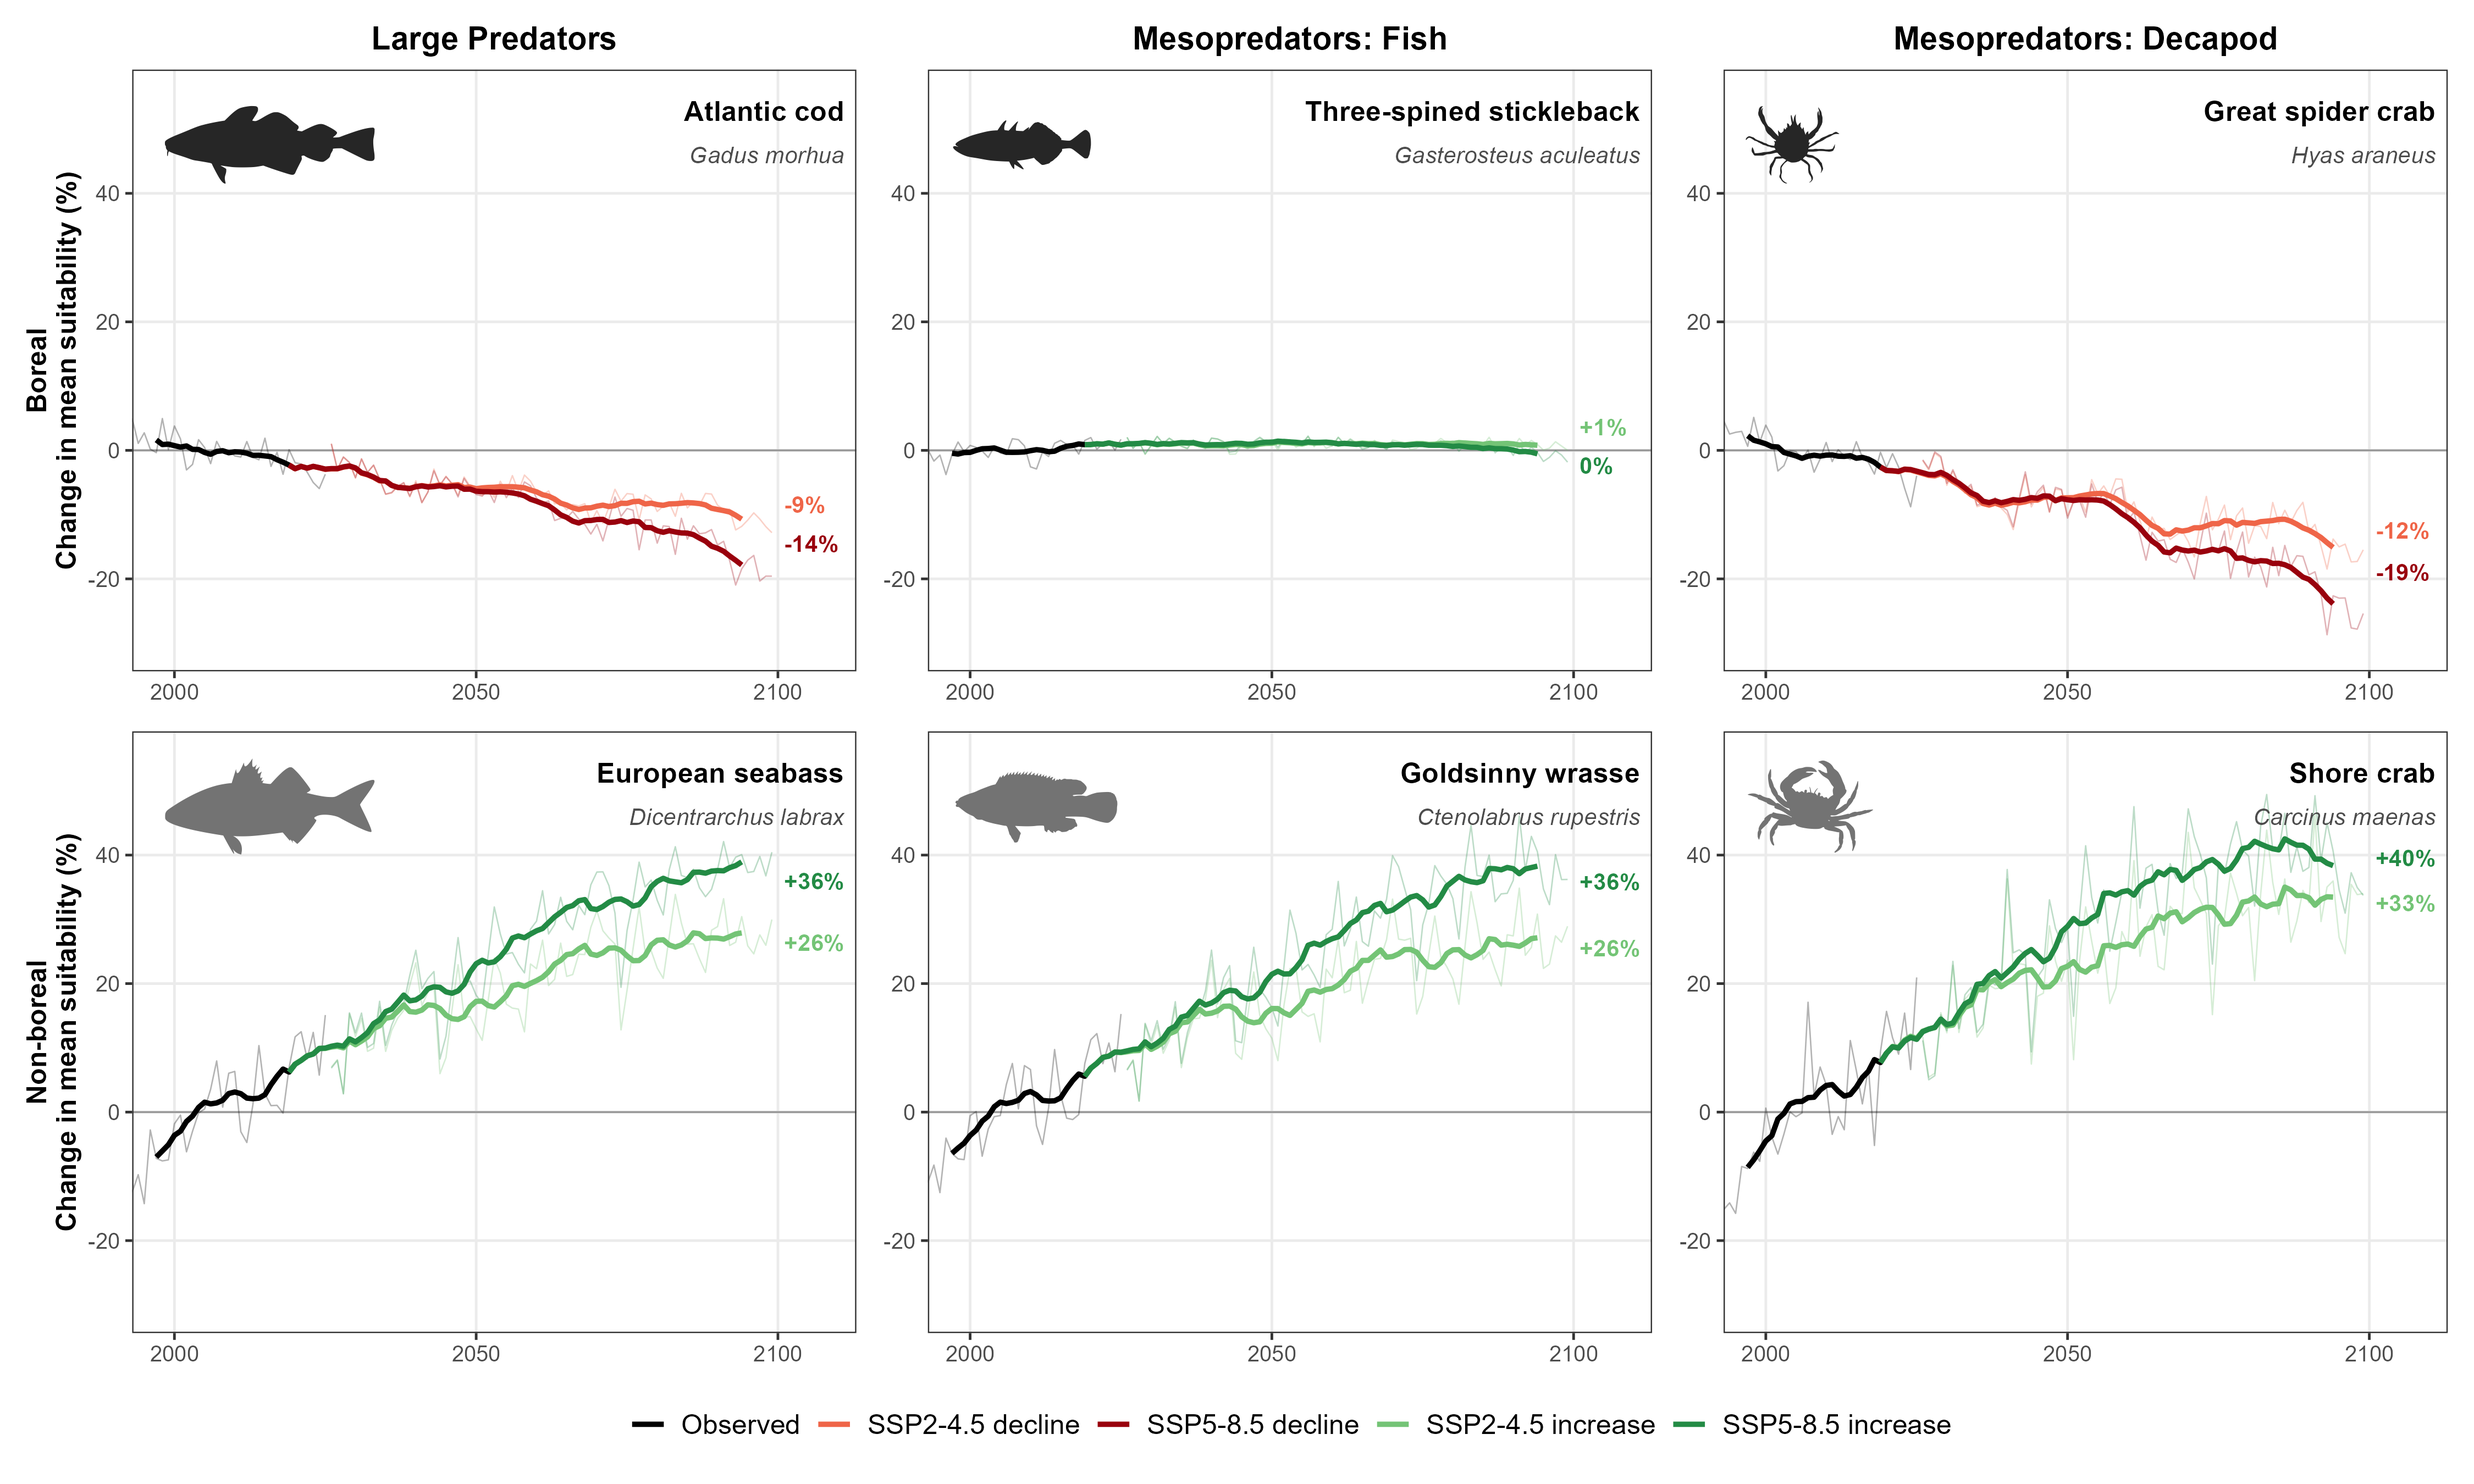
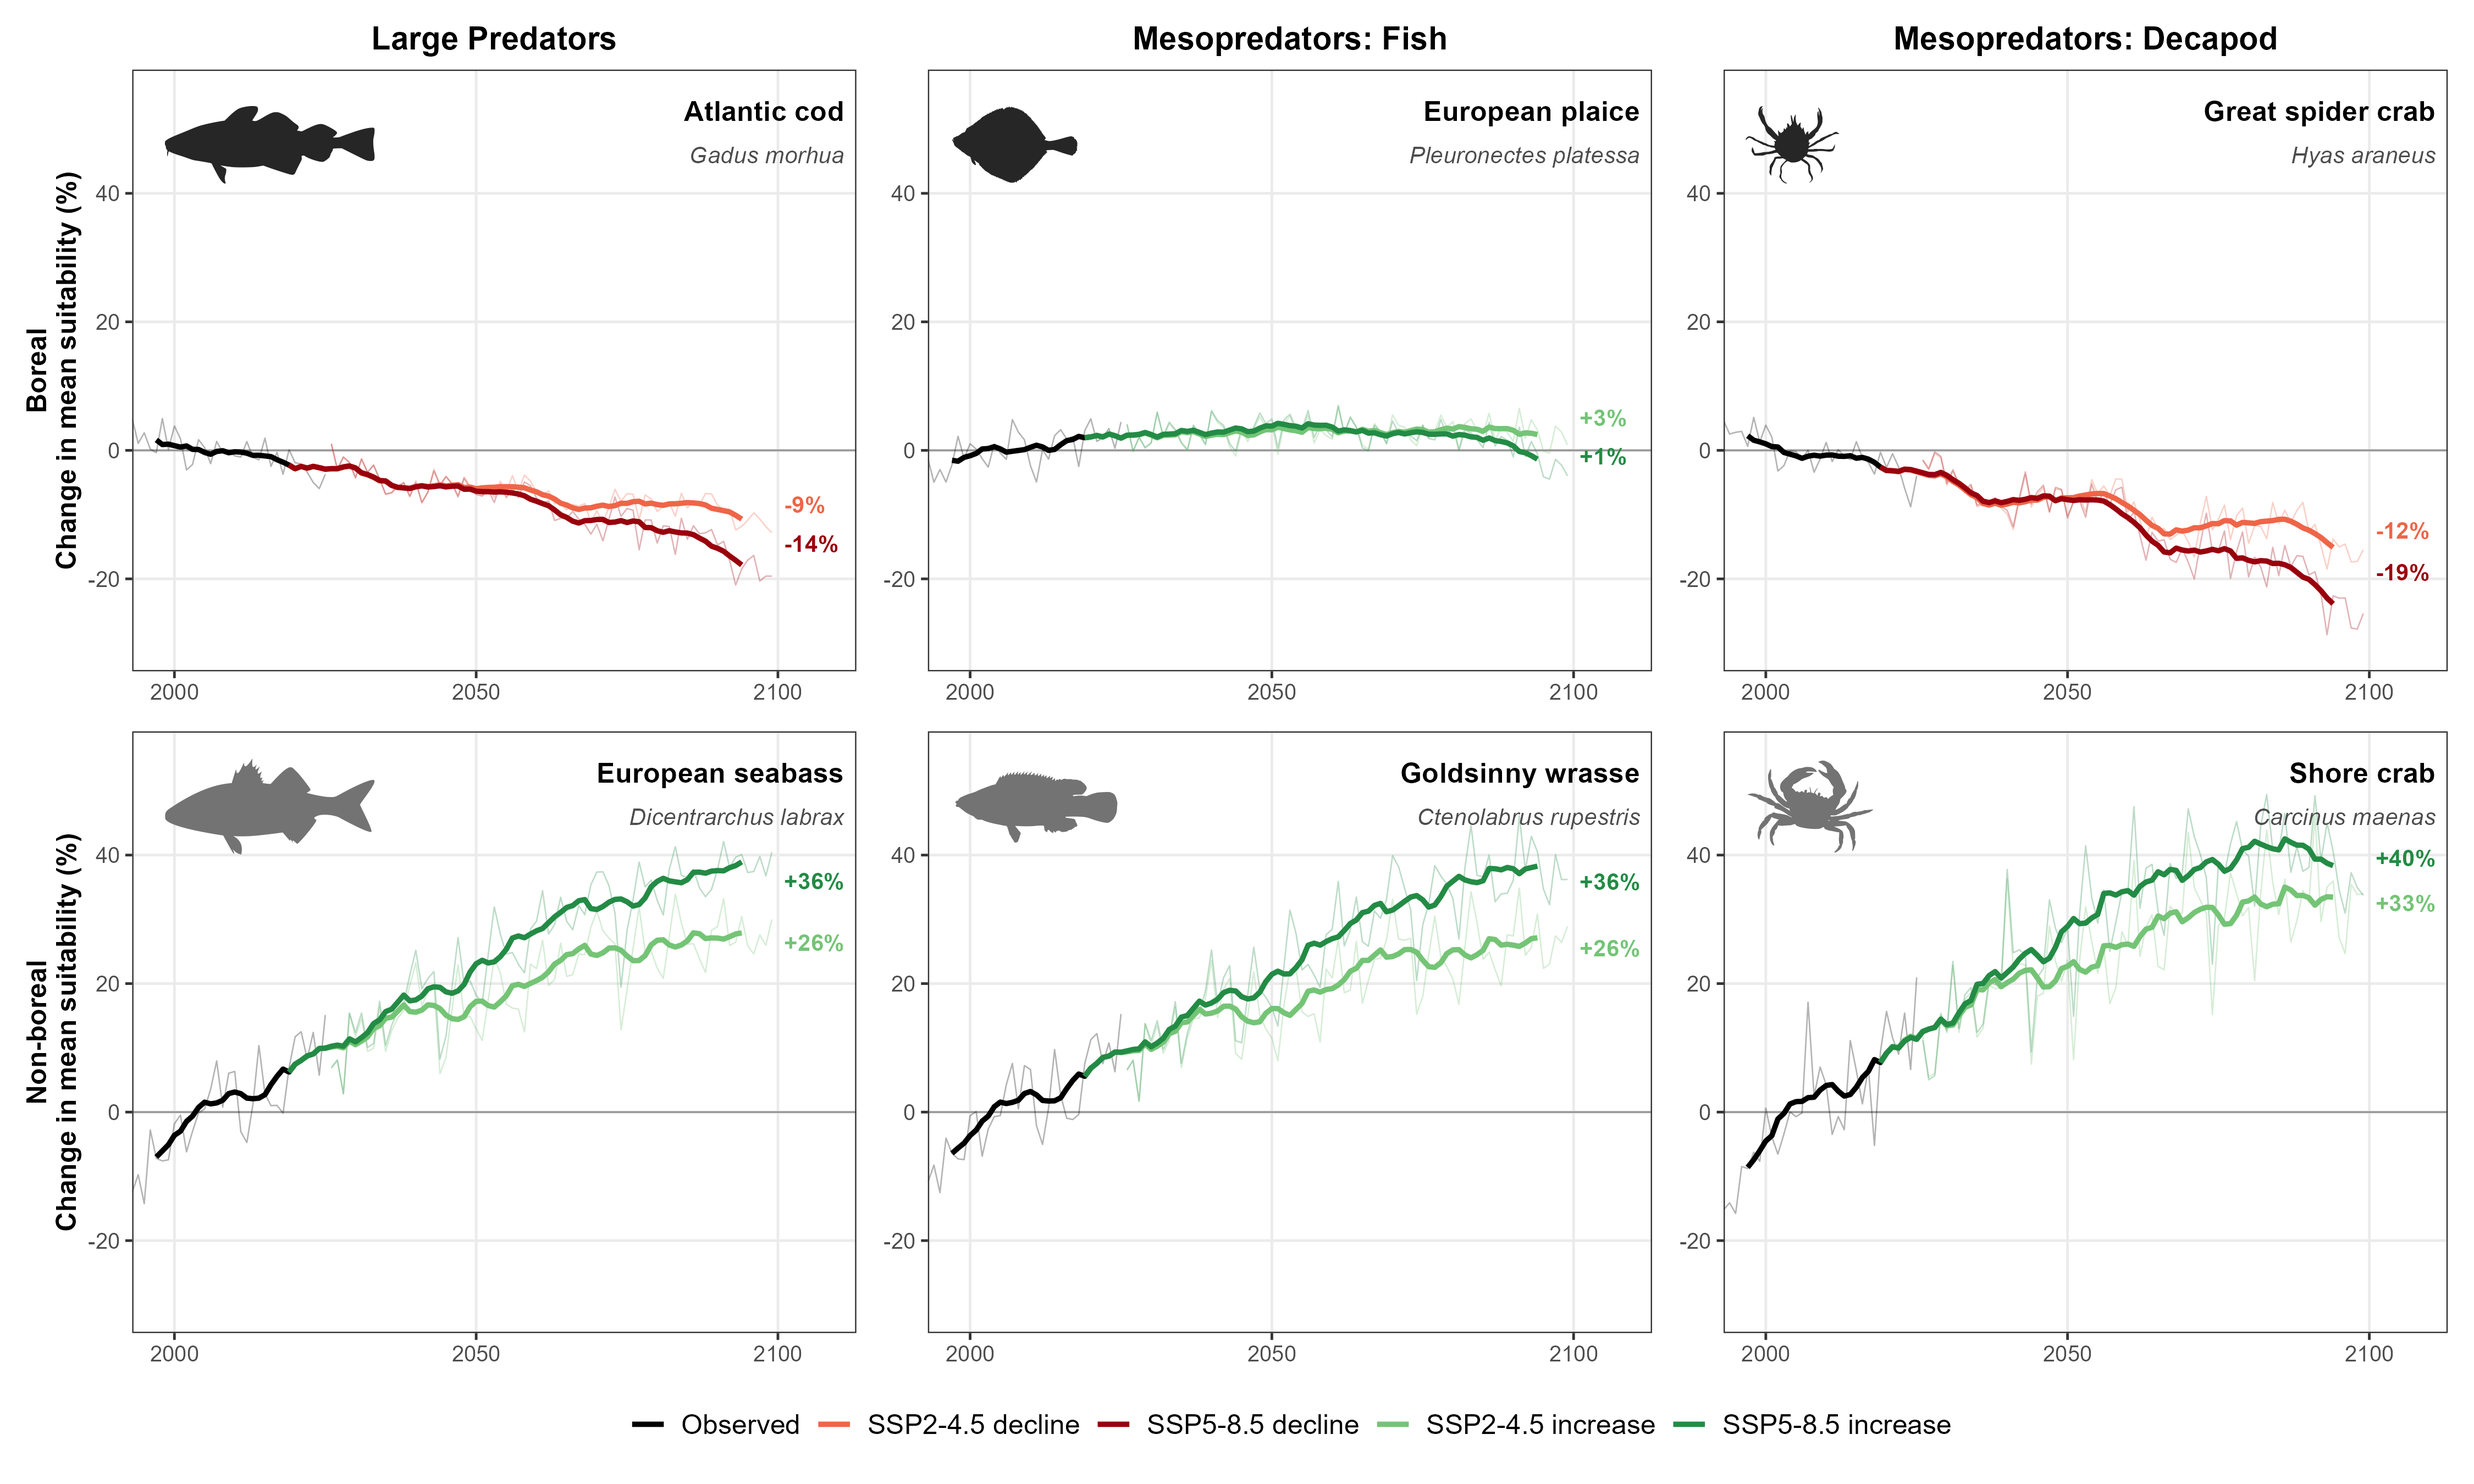
All Species Trends tab (curves per species by role x affinity, with silhouettes); plaice as boreal mesopredator representative

Changed region(s): [[0.3733, 0.28, 0.6533, 0.3111], [0.5289, 0.0622, 0.6533, 0.1244], [0.3733, 0.0622, 0.4356, 0.1244]]

diff --git a/index.html b/index.html
@@ -15,6 +15,7 @@
     <button class="tab-btn active" data-tab="future">Future Projections (2026-2099)</button>
     <button class="tab-btn" data-tab="trends">Trophic Role Trends (1993-2099)</button>
     <button class="tab-btn" data-tab="affinity">Biogeographic Affinity</button>
+    <button class="tab-btn" data-tab="alltrends">All Species Trends</button>
     <button class="tab-btn" data-tab="methods">Methods: Envelope Model Curves</button>
   </nav>
 
@@ -63,8 +64,9 @@
 
       <p class="caption"><strong>2. Example species.</strong> One boreal (cold-water, top row) and one non-boreal species (bottom row)
       per trophic group. Change in whole-year mean suitability relative to 1993-2022; thin = single years, bold = 10-year rolling mean;
-      labels = change by 2070-2099.</p>
-      <img class="result-img trends-img" src="assets/affinity/representative_species_panel.png?v=4" alt="Representative species per trophic role, boreal vs non-boreal">
+      labels = change by 2070-2099. European seabass is shown as a potential replacement for Atlantic cod; the other species are
+      well-caught species close to their group's median change. All species: <em>All Species Trends</em> tab.</p>
+      <img class="result-img trends-img" src="assets/affinity/representative_species_panel.png?v=5" alt="Representative species per trophic role, boreal vs non-boreal">
 
       <p class="caption"><strong>3. Every species: winter vs summer.</strong> Change in winter (y) versus summer (x) mean suitability
       from 1993-2022, for mid-century (2040-2069, top) and end of century (2070-2099, bottom) under both scenarios. Dot size = catch in the
@@ -99,6 +101,29 @@
       relative to the most-caught species of the same trophic group; violin shape and median line are weighted by this catch.
       Stars: ** p &lt; 0.01, ns = not significant (catch-weighted permutation tests of the median lines, 10,000 permutations; Holm within roles).</p>
       <img class="result-img affinity-img" src="assets/affinity/boreal_nonboreal_vs_change_SSP585_by_catch_violin_catchweighted.png?v=5" alt="Habitat change by biogeographic affinity, catch-weighted violins, SSP5-8.5">
+    </section>
+
+    <section id="tab-alltrends" class="tab-panel">
+      <div class="info-box">
+        <p><strong>Every species, grouped by trophic role and biogeographic affinity.</strong> Change in whole-year mean habitat
+        suitability relative to 1993-2022: observed (black, Copernicus reanalysis to 2025), then projected under SSP2-4.5 (light)
+        and SSP5-8.5 (dark); red = decline, green = increase by 2070-2099. Thin = single years, bold = 10-year rolling mean;
+        labels = mean change 2070-2099. Within each group, species are ordered by their catch in the Swedish coastal survey
+        (2000-2024, number of individuals). All panels share the same y-axis, so changes can be compared across groups.</p>
+      </div>
+      <p class="caption"><strong>Large Predators, boreal</strong></p>
+      <img class="result-img trends-img" src="assets/species_trends/species_trends_large_predators_boreal.png?v=1" alt="Habitat trends, boreal large predators">
+      <p class="caption"><strong>Large Predators, non-boreal</strong></p>
+      <img class="result-img trends-img" src="assets/species_trends/species_trends_large_predators_nonboreal.png?v=1" alt="Habitat trends, non-boreal large predators">
+      <p class="caption"><strong>Mesopredators, boreal</strong></p>
+      <img class="result-img trends-img" src="assets/species_trends/species_trends_mesopredators_boreal.png?v=1" alt="Habitat trends, boreal mesopredators">
+      <p class="caption"><strong>Mesopredators, non-boreal</strong></p>
+      <img class="result-img trends-img" src="assets/species_trends/species_trends_mesopredators_nonboreal.png?v=1" alt="Habitat trends, non-boreal mesopredators">
+      <p class="caption"><strong>Non-native species</strong> (blue crab, round goby)</p>
+      <img class="result-img trends-img" src="assets/species_trends/species_trends_nonnative.png?v=1" alt="Habitat trends, non-native species">
+      <p class="caption">Silhouettes: PhyloPic (phylopic.org), mostly public domain; some show a related species, genus or family where no
+      image of the species exists. CC BY images: thicklip grey mullet (Chelon sp.) by Lafage (CC BY 3.0), red mullet by Emilie Boulanger
+      (CC BY 3.0), round goby by Nathan Jay Baker (CC BY 4.0).</p>
     </section>
 
     <section id="tab-methods" class="tab-panel">
